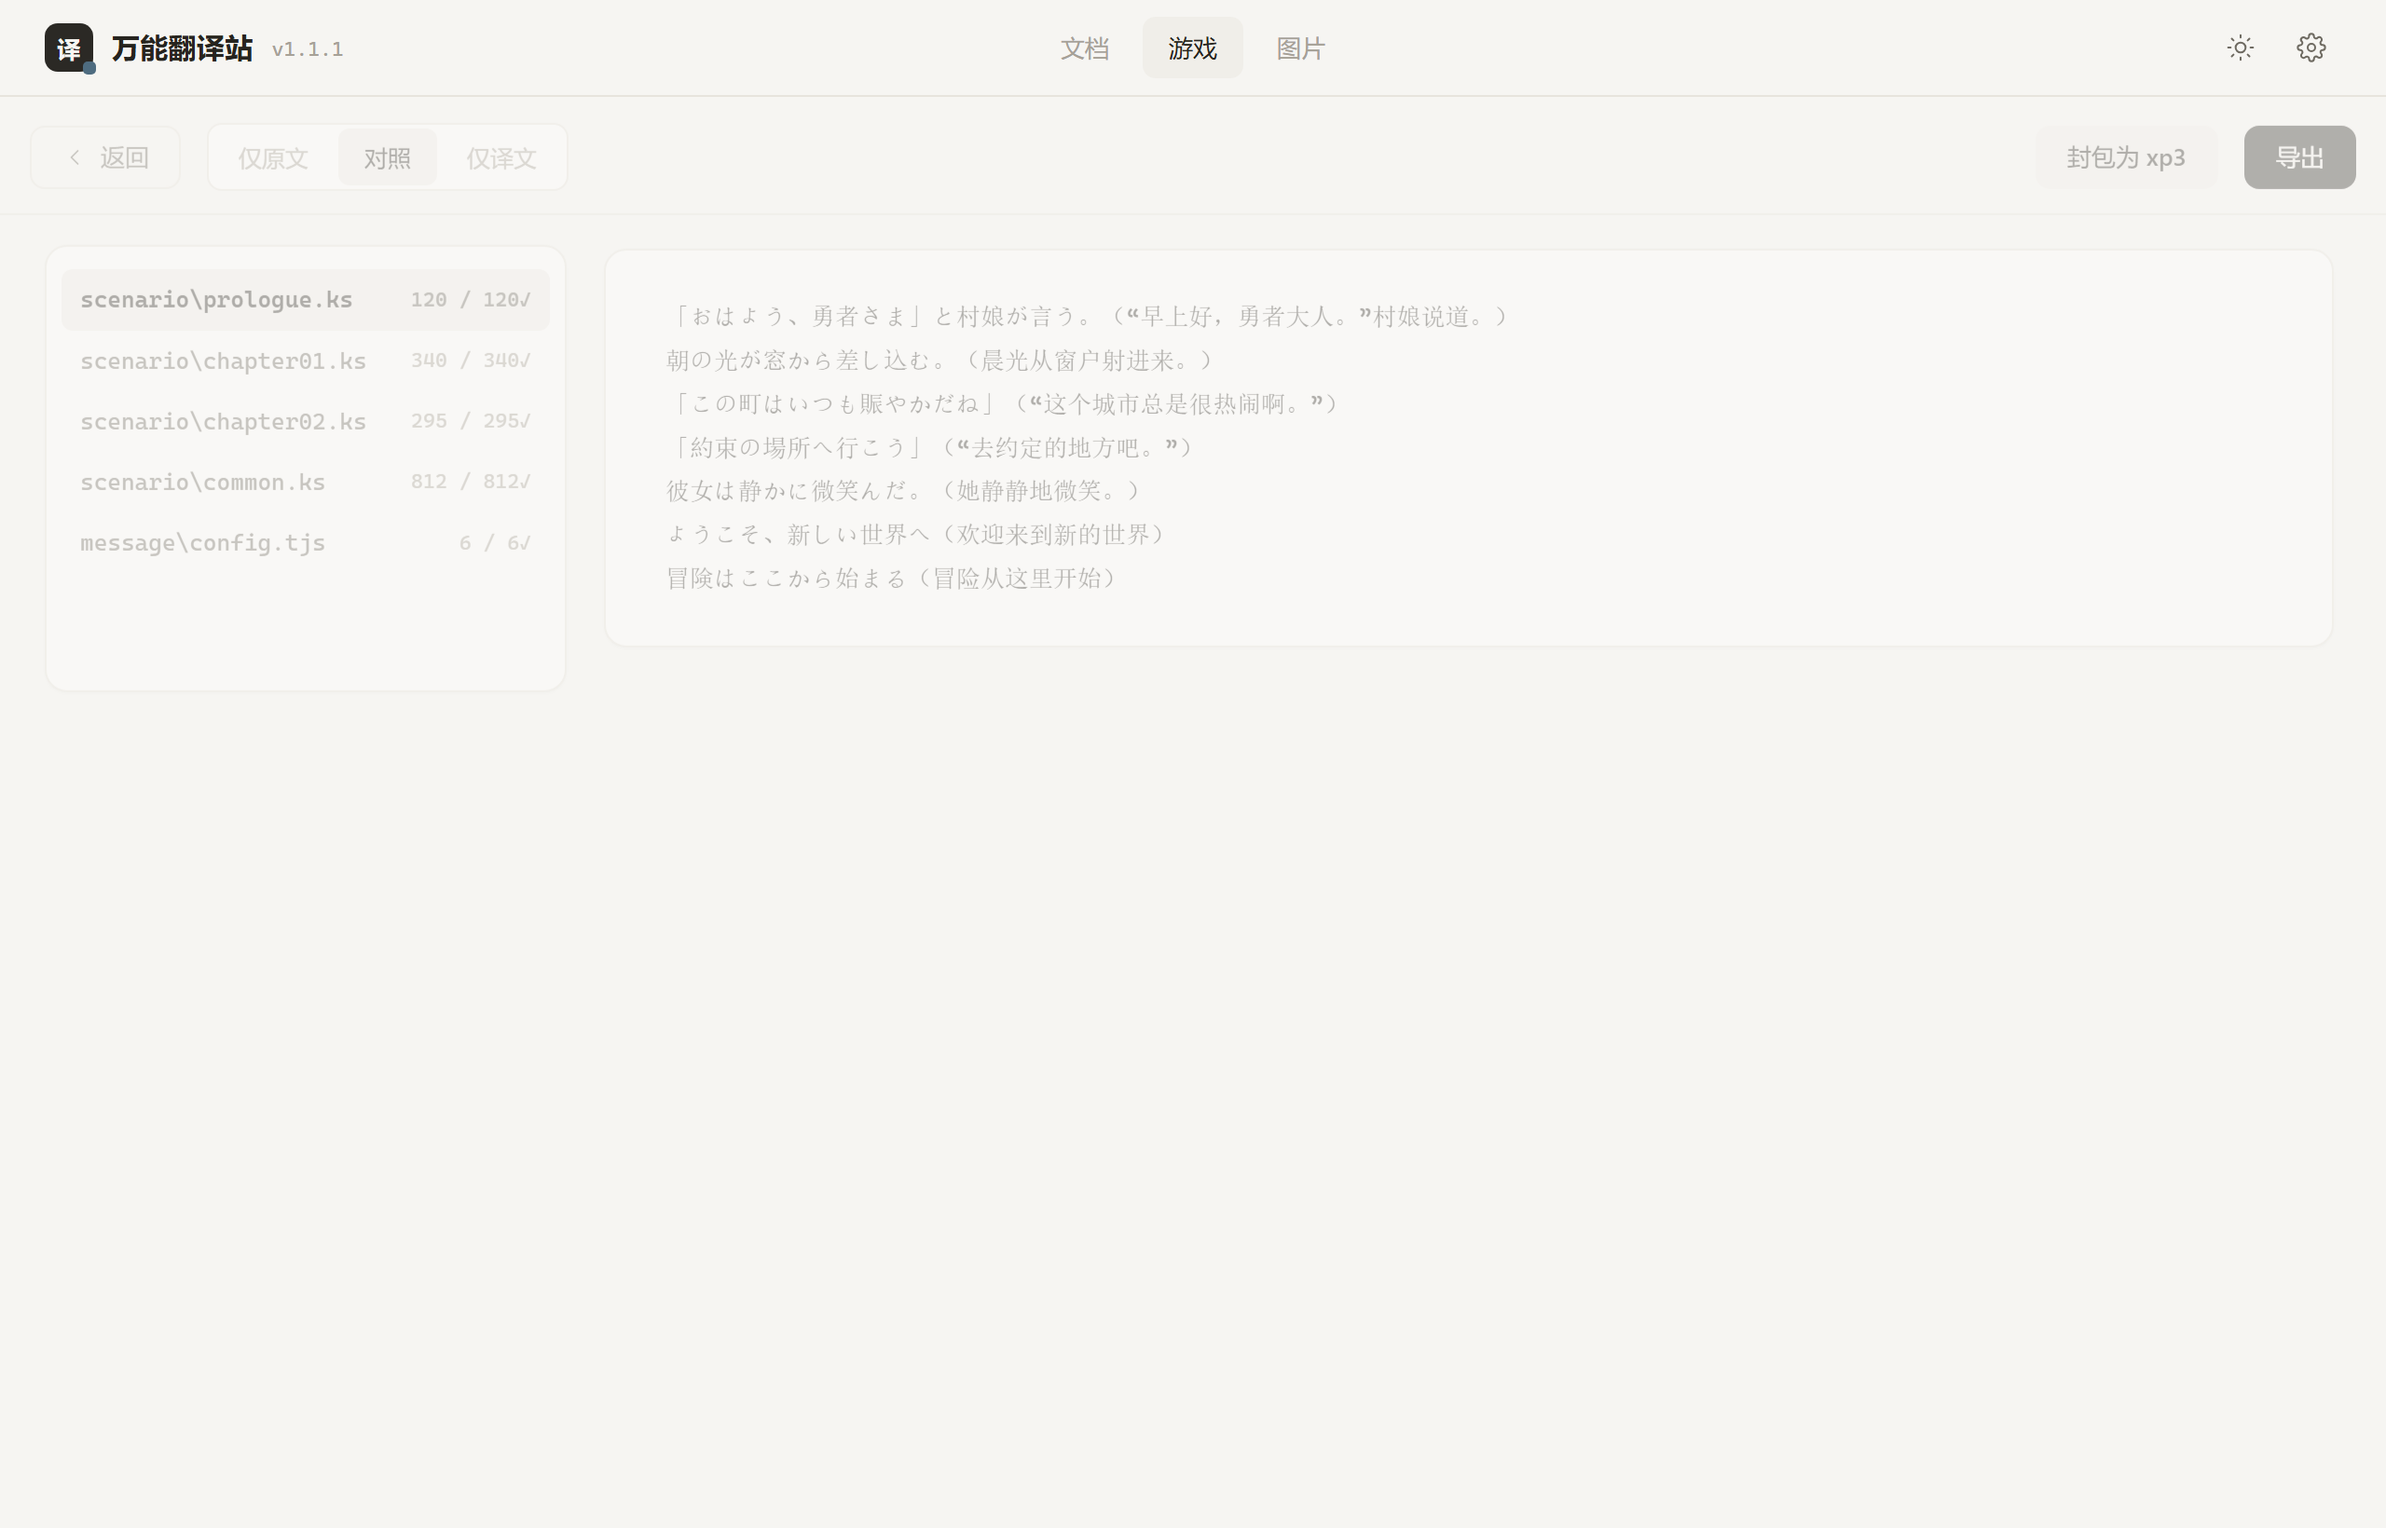
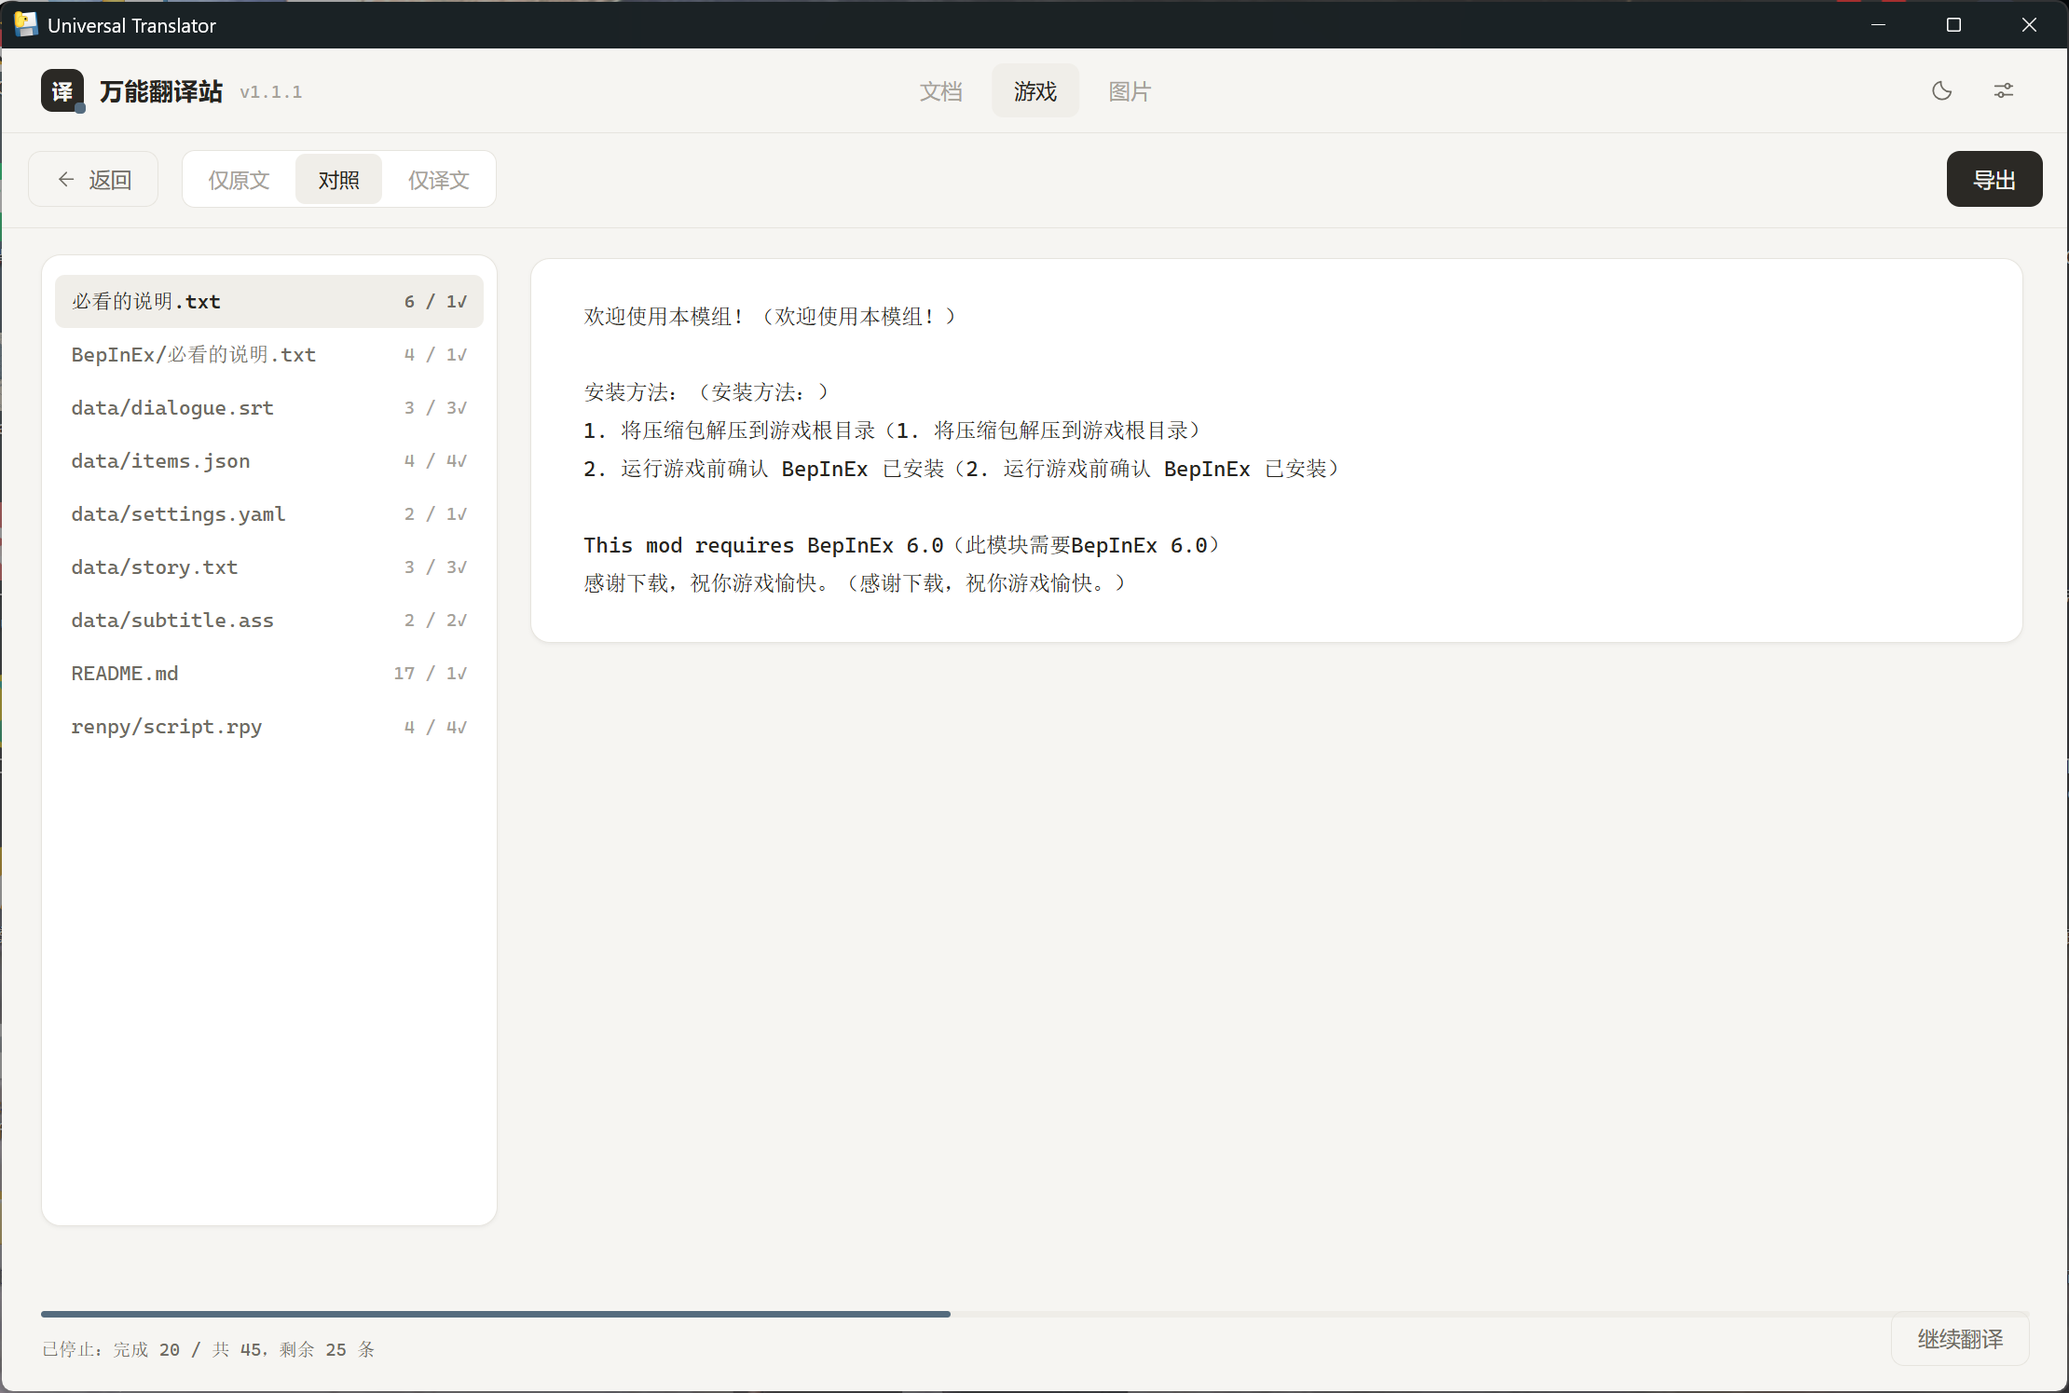
docs: README 换用真实运行截图（导入/扫描/浏览三张）

diff --git a/web/css/tokens.css b/web/css/tokens.css
@@ -27,7 +27,7 @@ body[data-theme="light"] {
   --bg-active: #E7E4DD;     /* 按下填充 */
   --bg-inset: #EFEDE8;      /* 凹面：进度轨道、meta 条 */
   --bg-elevated: #FFFFFF;   /* 悬浮层：抽屉 */
-  --bg-glass: rgba(255, 255, 255, .92); /* 顶栏 / 工具栏（纯色为主，毛玻璃只作兜底） */
+  --bg-glass: rgba(246, 245, 242, .78); /* 顶栏毛玻璃：与内容同色系（暖灰），避免白条压灰纸 */
 
   /* 文字：暖墨，带一点暖调 */
   --text: #26241F;          /* 正文 / 译文，墨色 */

diff --git a/README.en.md b/README.en.md
@@ -2,7 +2,13 @@
 
 **A universal text translation tool for Windows desktop**: stop juggling between file managers and multiple translation apps. Just drag your files into the box — documents, games, or images — **detect → extract → translate → replace**, all in one place.
 
+![Import screen](docs/assets/screenshot-import.png)
+
+Drag in a game folder; text files are scanned and the engine auto-detected:
+
 ![Scan screen](docs/assets/screenshot-scan.png)
+
+Review per-file translations, original vs translated side by side:
 
 ![Browse & translate screen](docs/assets/screenshot-browse.png)
 

diff --git a/README.md b/README.md
@@ -2,7 +2,13 @@
 
 **万能文本翻译工具（Windows 桌面版）**：不用在文件管理器与多种翻译软件之间挣扎，将你的文件拖入框内——不管是文件、游戏还是图片，**识别 → 提取 → 翻译 → 替换**，一个平台解决所有烦恼。
 
+![导入界面](docs/assets/screenshot-import.png)
+
+拖入游戏文件夹，自动扫描文本并识别引擎：
+
 ![扫描界面](docs/assets/screenshot-scan.png)
+
+按文件查看翻译结果，原文 / 译文对照：
 
 ![翻译浏览界面](docs/assets/screenshot-browse.png)
 
